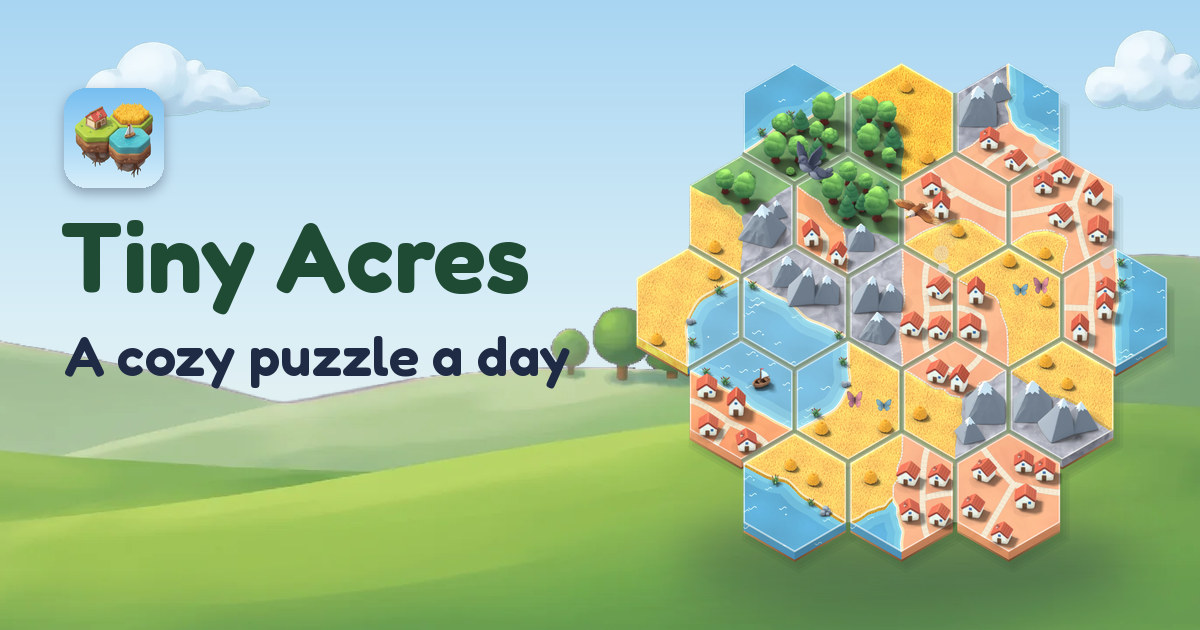
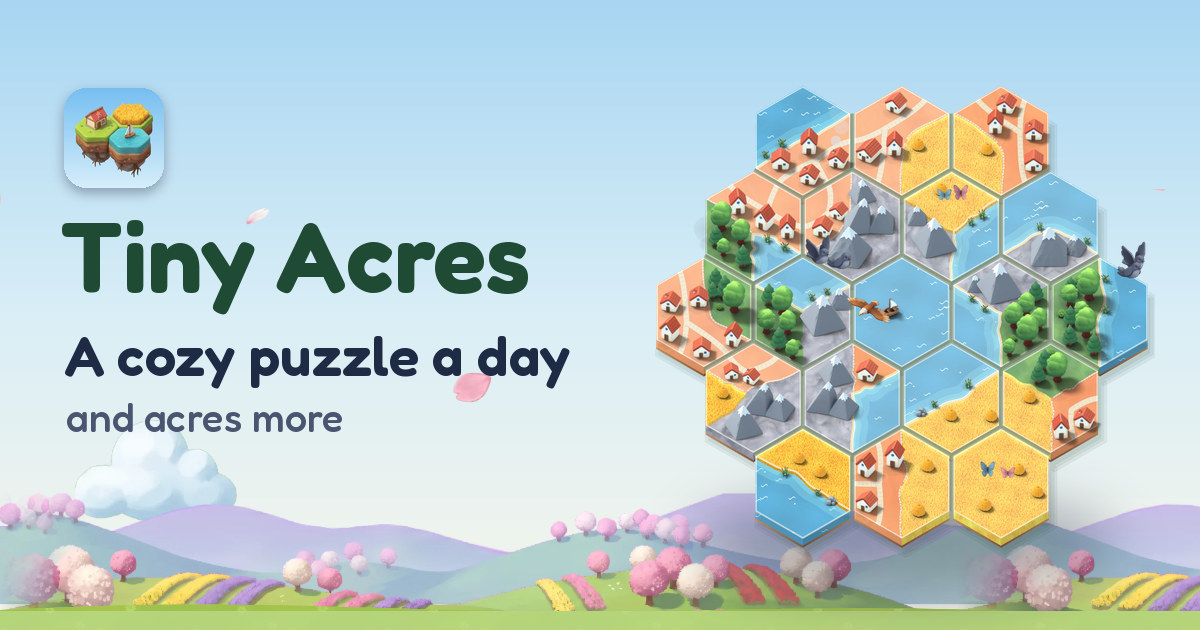
feat(tiny-acres): the Acres release's page: Acres, the new worlds, new pictures
The page for Tiny Acres' next release (not published: merge to main on
release day, with the stores): Acres in the pitch, description, update
and features; Sandy Cove and Petal Fields named, never a count; Easy,
Medium or Hard; the look that follows the day; Free play gone from the
apps. Six new screenshots (the Play phone set's 01, 02, 04, 05, 06 and 08
at 540 x 960) and a new link preview (Acre 57 over Petal Fields'
backdrop). The money note says no ad interrupts a puzzle.

diff --git a/tiny-acres/index.html b/tiny-acres/index.html
@@ -3,21 +3,21 @@
 <head>
 <meta charset="utf-8">
 <meta name="viewport" content="width=device-width, initial-scale=1">
-<title>Tiny Acres · A cozy puzzle a day, in a painted 3D countryside</title>
-<meta name="description" content="Tiny Acres: A cozy puzzle a day, in a painted 3D countryside. One shared puzzle a day: match the edges, and your acre grows into one little landscape. And Worlds: whole landscapes to piece together. No lives, no timers. New: The 3D look. Every acre and every world, redrawn in painted 3D.">
+<title>Tiny Acres · A cozy puzzle a day, and acres more</title>
+<meta name="description" content="Tiny Acres: A cozy puzzle a day, and acres more. One shared puzzle a day: match the edges, and your acre grows into one little landscape. Then Acres, numbered acres without end along a country lane, and Worlds: whole landscapes to piece together. No lives, no timers. New: Acres. Play on, acre after acre, whenever you like.">
 <link rel="canonical" href="https://primekampllc.com/tiny-acres/">
 <meta property="og:type" content="website">
 <meta property="og:site_name" content="PrimeKamp">
-<meta property="og:title" content="Tiny Acres · A cozy puzzle a day, in a painted 3D countryside">
-<meta property="og:description" content="Tiny Acres: A cozy puzzle a day, in a painted 3D countryside. One shared puzzle a day: match the edges, and your acre grows into one little landscape. And Worlds: whole landscapes to piece together. No lives, no timers. New: The 3D look. Every acre and every world, redrawn in painted 3D.">
+<meta property="og:title" content="Tiny Acres · A cozy puzzle a day, and acres more">
+<meta property="og:description" content="Tiny Acres: A cozy puzzle a day, and acres more. One shared puzzle a day: match the edges, and your acre grows into one little landscape. Then Acres, numbered acres without end along a country lane, and Worlds: whole landscapes to piece together. No lives, no timers. New: Acres. Play on, acre after acre, whenever you like.">
 <meta property="og:url" content="https://primekampllc.com/tiny-acres/">
 <meta property="og:image" content="https://primekampllc.com/shots/tiny-acres-share.jpg">
 <meta property="og:image:width" content="1200">
 <meta property="og:image:height" content="630">
-<meta property="og:image:alt" content="Tiny Acres, a cozy puzzle a day: a finished acre in painted 3D, its woods, lakes, fields, cottages and snowy peaks running on into one another.">
+<meta property="og:image:alt" content="Tiny Acres, a cozy puzzle a day, and acres more: a finished acre in painted 3D floating over Petal Fields&#x27; blossom trees and flower strips.">
 <meta name="twitter:card" content="summary_large_image">
-<meta name="twitter:title" content="Tiny Acres · A cozy puzzle a day, in a painted 3D countryside">
-<meta name="twitter:description" content="Tiny Acres: A cozy puzzle a day, in a painted 3D countryside. One shared puzzle a day: match the edges, and your acre grows into one little landscape. And Worlds: whole landscapes to piece together. No lives, no timers. New: The 3D look. Every acre and every world, redrawn in painted 3D.">
+<meta name="twitter:title" content="Tiny Acres · A cozy puzzle a day, and acres more">
+<meta name="twitter:description" content="Tiny Acres: A cozy puzzle a day, and acres more. One shared puzzle a day: match the edges, and your acre grows into one little landscape. Then Acres, numbered acres without end along a country lane, and Worlds: whole landscapes to piece together. No lives, no timers. New: Acres. Play on, acre after acre, whenever you like.">
 <meta name="twitter:image" content="https://primekampllc.com/shots/tiny-acres-share.jpg">
 <link rel="preload" href="/fonts/InterVariable.woff2" as="font" type="font/woff2" crossorigin>
 <link rel="stylesheet" href="/assets/site.css?v=e9461fca69">
@@ -52,12 +52,12 @@
       <img class="app-icon app-icon--large" src="/icon.png" alt="" width="112" height="112">
       <div>
         <h1>Tiny Acres</h1>
-        <p class="lead">A cozy puzzle a day, in a painted 3D countryside.</p>
+        <p class="lead">A cozy puzzle a day, and acres more.</p>
       </div>
     </div>
     <div class="product-head__about">
-      <p>One shared puzzle a day: match the edges, and your acre grows into one little landscape. And Worlds: whole landscapes to piece together. No lives, no timers.</p>
-      <p class="card__meta"><span class="status status--live">On Google Play</span> <span class="status status--live">On the App Store</span> <span class="status status--live">Play in your browser</span> <span class="status status--new">New: The 3D look</span></p>
+      <p>One shared puzzle a day: match the edges, and your acre grows into one little landscape. Then Acres, numbered acres without end along a country lane, and Worlds: whole landscapes to piece together. No lives, no timers.</p>
+      <p class="card__meta"><span class="status status--live">On Google Play</span> <span class="status status--live">On the App Store</span> <span class="status status--live">Play in your browser</span> <span class="status status--new">New: Acres</span></p>
       <div class="actions">
         <a class="pk-button" href="https://play.google.com/store/apps/details?id=app.tinyacres.game">Get it on Google Play</a>
         <a class="text-link" href="https://apps.apple.com/app/id6828786988">Get it on the App Store</a>
@@ -71,22 +71,22 @@
 <section class="section section--tight" aria-label="Screenshots">
   <div class="wrap">
     <ul class="shots">
-      <li><img src="/shots/01.jpg" alt="One cozy puzzle a day: Today&#x27;s acre, Oak Haven, part-way in 3D: a forest tile held over its cell beside a lake, cottages and snowy peaks, hills behind" width="540" height="960" loading="lazy"></li>
-      <li><img src="/shots/02.jpg" alt="Match edges, watch it come alive: a forest has just closed on today&#x27;s acre: birds lift from the 3D trees and bonus points show above the board" width="540" height="960" loading="lazy"></li>
-      <li><img src="/shots/03.jpg" alt="Landscape jigsaws to piece together: Worlds, an acre of Meadow Valley in 3D: a river piece over its gap with gold sides, one dotted piece not yet in place" width="540" height="960" loading="lazy"></li>
-      <li><img src="/shots/04.jpg" alt="A country lane through every world: Snowbury&#x27;s snowy lane in 3D: houses and lamps along it, the next acre gold with a flag and a little cart, snow in the air" width="540" height="960" loading="lazy"></li>
-      <li><img src="/shots/05.jpg" alt="Worlds for every season: the gallery of finished worlds, each in its season: Snowbury, a snowy market town, then Russet Vale in autumn" width="540" height="960" loading="lazy"></li>
-      <li><img src="/shots/06.jpg" alt="A medal for every acre: Oak Haven complete: Gold on the result card, the finished 3D acre above it under a sunset sky" width="540" height="960" loading="lazy"></li>
+      <li><img src="/shots/01.jpg" alt="A cozy puzzle a day, and acres more: the home at 10:00, Acres&#x27; big card on Sandy Cove&#x27;s lane beside Worlds, then Today&#x27;s Acre and more" width="540" height="960" loading="lazy"><p class="shot-note" aria-hidden="true">New: Acres</p></li>
+      <li><img src="/shots/02.jpg" alt="Match edges, watch it come alive: a forest has just closed on Acre 57, birds lifting, Petal Fields&#x27; blossom and flower strips behind the board" width="540" height="960" loading="lazy"><p class="shot-note" aria-hidden="true">New: Acres</p></li>
+      <li><img src="/shots/03.jpg" alt="A country lane, acre by acre: the Acres lane along Sandy Cove&#x27;s beach, medals on the stops behind, the cart at the next acre" width="540" height="960" loading="lazy"><p class="shot-note" aria-hidden="true">New: Acres</p></li>
+      <li><img src="/shots/04.jpg" alt="Landscape jigsaws to piece together: Lighthouse rock in Sandy Cove, a piece held over its gap, its matching sides gold" width="540" height="960" loading="lazy"></li>
+      <li><img src="/shots/05.jpg" alt="Worlds for every season: Petal Fields&#x27; path through tulip and lavender strips, Flower market the next place" width="540" height="960" loading="lazy"></li>
+      <li><img src="/shots/06.jpg" alt="Bright by day, cozy by night: today&#x27;s acre, Oak Haven, in the dark look at night, a village of three just closed" width="540" height="960" loading="lazy"></li>
     </ul>
   </div>
 </section>
 
-<section class="section section--tight" aria-labelledby="the-3d-look">
+<section class="section section--tight" aria-labelledby="acres">
   <div class="wrap">
     <div class="pk-card panel update">
       <p class="card__meta"><span class="status status--new">New</span></p>
-      <h2 id="the-3d-look">The 3D look</h2>
-      <p>Every tile, every world and the home screen are redrawn in a painted 3D look: woods, wheat fields, lakes, cottages and snow-capped peaks, with a living countryside behind your board. Close a forest and birds lift from the trees; close a lake and a fish leaps; close a village and its windows light up. Each day&#x27;s acre now has a cozy name of its own, like Hazel Corner. And from Tuesday 24 November, every day&#x27;s acre has all five terrains, and every day is just as friendly, so any day is a good day to start.</p>
+      <h2 id="acres">Acres</h2>
+      <p>Acres takes the big card on your home screen: numbered acres without end, played one after another along a country lane. Finish one, tap Next acre, and a little cart rolls on to the next, with a new backdrop behind your board every acre and milestone flags along the way. New worlds too: Sandy Cove, a sunny bay with dunes, beach huts, a lighthouse and a jetty, and Petal Fields, with tulip and lavender strips, blossom groves and a glasshouse. Worlds now call their places by name, like Village square. Choose Easy, Medium or Hard for Acres and Worlds, while today&#x27;s acre stays the same for everyone. And the look follows your day: bright by day, dark at night. Free play makes way for Acres; your bests stay in Stats.</p>
     </div>
   </div>
 </section>
@@ -97,15 +97,15 @@
       <h2>What it's like</h2>
       <ul class="pixel-list">
         <li>Match forests with forests and lakes with lakes, and close regions for bonus points.</li>
-        <li>Painted 3D tiles: woods, wheat fields, lakes, cottages and snow-capped peaks, on a little island with the countryside behind it.</li>
-        <li>Beat the day&#x27;s target for a medal, keep your streak, and share your finished acre. Friends can play the same acre and see both side by side.</li>
-        <li>Worlds: landscapes to piece together at your own pace, each in its own season. Every world is free.</li>
-        <li>Cozy acoustic music, festivals, tile colours and a dark mode. Plays fully offline.</li>
+        <li>Acres: numbered acres without end along a country lane, a little cart rolling on to the next, and a new backdrop behind your board every time.</li>
+        <li>Beat the target for a medal, keep your daily streak, and share your finished acre. Friends can play the same acre and see both side by side.</li>
+        <li>Worlds: landscapes to piece together at your own pace, from Meadow Valley in spring to Sandy Cove&#x27;s sunny bay and the flower strips of Petal Fields. Every world is free.</li>
+        <li>Easy, Medium or Hard, painted 3D tiles, cozy acoustic music and festivals; bright by day, dark at night. Plays fully offline.</li>
       </ul>
     </div>
     <div class="pk-card panel">
       <h2>Fair and simple</h2>
-      <p>Free to play, with a few ads that never interrupt the daily acre. Tiny Acres Plus is one optional, one-time purchase that removes them. No subscription, no in-game currency, no loot boxes.</p>
+      <p>Free to play, with a few ads that never interrupt a puzzle. Tiny Acres Plus is one optional, one-time purchase that removes them. No subscription, no in-game currency, no loot boxes.</p>
     </div>
   </div>
 </section>

diff --git a/games/index.html b/games/index.html
@@ -60,10 +60,10 @@
         <img class="app-icon" src="/icon.png" alt="" width="96" height="96">
         <div class="game-row__body">
           <h2><a href="/tiny-acres/">Tiny Acres</a></h2>
-          <p class="game-row__pitch">A cozy puzzle a day, in a painted 3D countryside.</p>
-          <p>One shared puzzle a day: match the edges, and your acre grows into one little landscape. And Worlds: whole landscapes to piece together. No lives, no timers.</p>
-          <p>New: The 3D look. Every acre and every world, redrawn in painted 3D.</p>
-          <p class="card__meta"><span class="status status--live">On Google Play</span> <span class="status status--live">On the App Store</span> <span class="status status--live">Play in your browser</span> <span class="status status--new">New: The 3D look</span></p>
+          <p class="game-row__pitch">A cozy puzzle a day, and acres more.</p>
+          <p>One shared puzzle a day: match the edges, and your acre grows into one little landscape. Then Acres, numbered acres without end along a country lane, and Worlds: whole landscapes to piece together. No lives, no timers.</p>
+          <p>New: Acres. Play on, acre after acre, whenever you like.</p>
+          <p class="card__meta"><span class="status status--live">On Google Play</span> <span class="status status--live">On the App Store</span> <span class="status status--live">Play in your browser</span> <span class="status status--new">New: Acres</span></p>
           <p class="link-row"><a class="text-link" href="/tiny-acres/">About Tiny Acres</a> <a class="text-link" href="https://play.google.com/store/apps/details?id=app.tinyacres.game">Get it on Google Play</a> <a class="text-link" href="https://apps.apple.com/app/id6828786988">Get it on the App Store</a> <a class="text-link" href="/tiny-acres/play/">Play today&#x27;s acre in your browser</a></p>
         </div>
       </li>

diff --git a/index.html b/index.html
@@ -77,8 +77,8 @@
       <li class="card">
         <div class="card__media"><img src="/icon.png" alt="" width="88" height="88"></div>
         <h3 class="card__title"><a class="card__link" href="/tiny-acres/">Tiny Acres</a></h3>
-        <p class="card__pitch">A cozy puzzle a day, in a painted 3D countryside.</p>
-        <p class="card__meta"><span class="status status--live">On Google Play</span> <span class="status status--live">On the App Store</span> <span class="status status--live">Play in your browser</span> <span class="status status--new">New: The 3D look</span></p>
+        <p class="card__pitch">A cozy puzzle a day, and acres more.</p>
+        <p class="card__meta"><span class="status status--live">On Google Play</span> <span class="status status--live">On the App Store</span> <span class="status status--live">Play in your browser</span> <span class="status status--new">New: Acres</span></p>
       </li>
       <li class="card">
         <div class="card__media"><img src="/big-deal/icon.png" alt="" width="88" height="88"></div>
